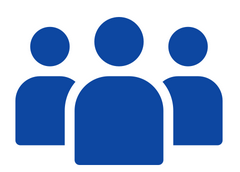
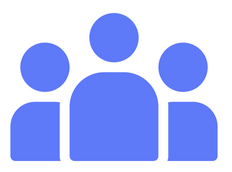
Update Design

diff --git a/mobile/TestScreen.js b/mobile/TestScreen.js
@@ -17,6 +17,7 @@ export default function TestScreen({ navigation }) {
 
       {/* Main content */}
       <View style={styles.content}>
+        <Text>What you will learn today?</Text>
       </View>
 
       {/* Navigation bar at the bottom with icons */}
@@ -70,8 +71,8 @@ const styles = StyleSheet.create({
     width: '100%',  
   },
   headerIcon: {
-    width: 30,
-    height: 30,
+    width: 45,
+    height: 45,
   },
 
   headerText: {
@@ -118,10 +119,10 @@ const styles = StyleSheet.create({
     fontSize: 12,
     textAlign: 'center',
     marginTop: 5, 
-    color: '#0D47A1',
+    color: '#5F7AF9',
   },
   navTextDarkBlue: {
-    color: '#0D47A1', 
+    color: '#5F7AF9', 
   },
   scanButton: {
     position: 'absolute',
@@ -132,7 +133,7 @@ const styles = StyleSheet.create({
     width: 70,
     height: 70,
     borderRadius: 15,
-    backgroundColor: '#0D47A1',
+    backgroundColor: '#5F7AF9',
     marginBottom: 37,
   },  
   scanImage: {
